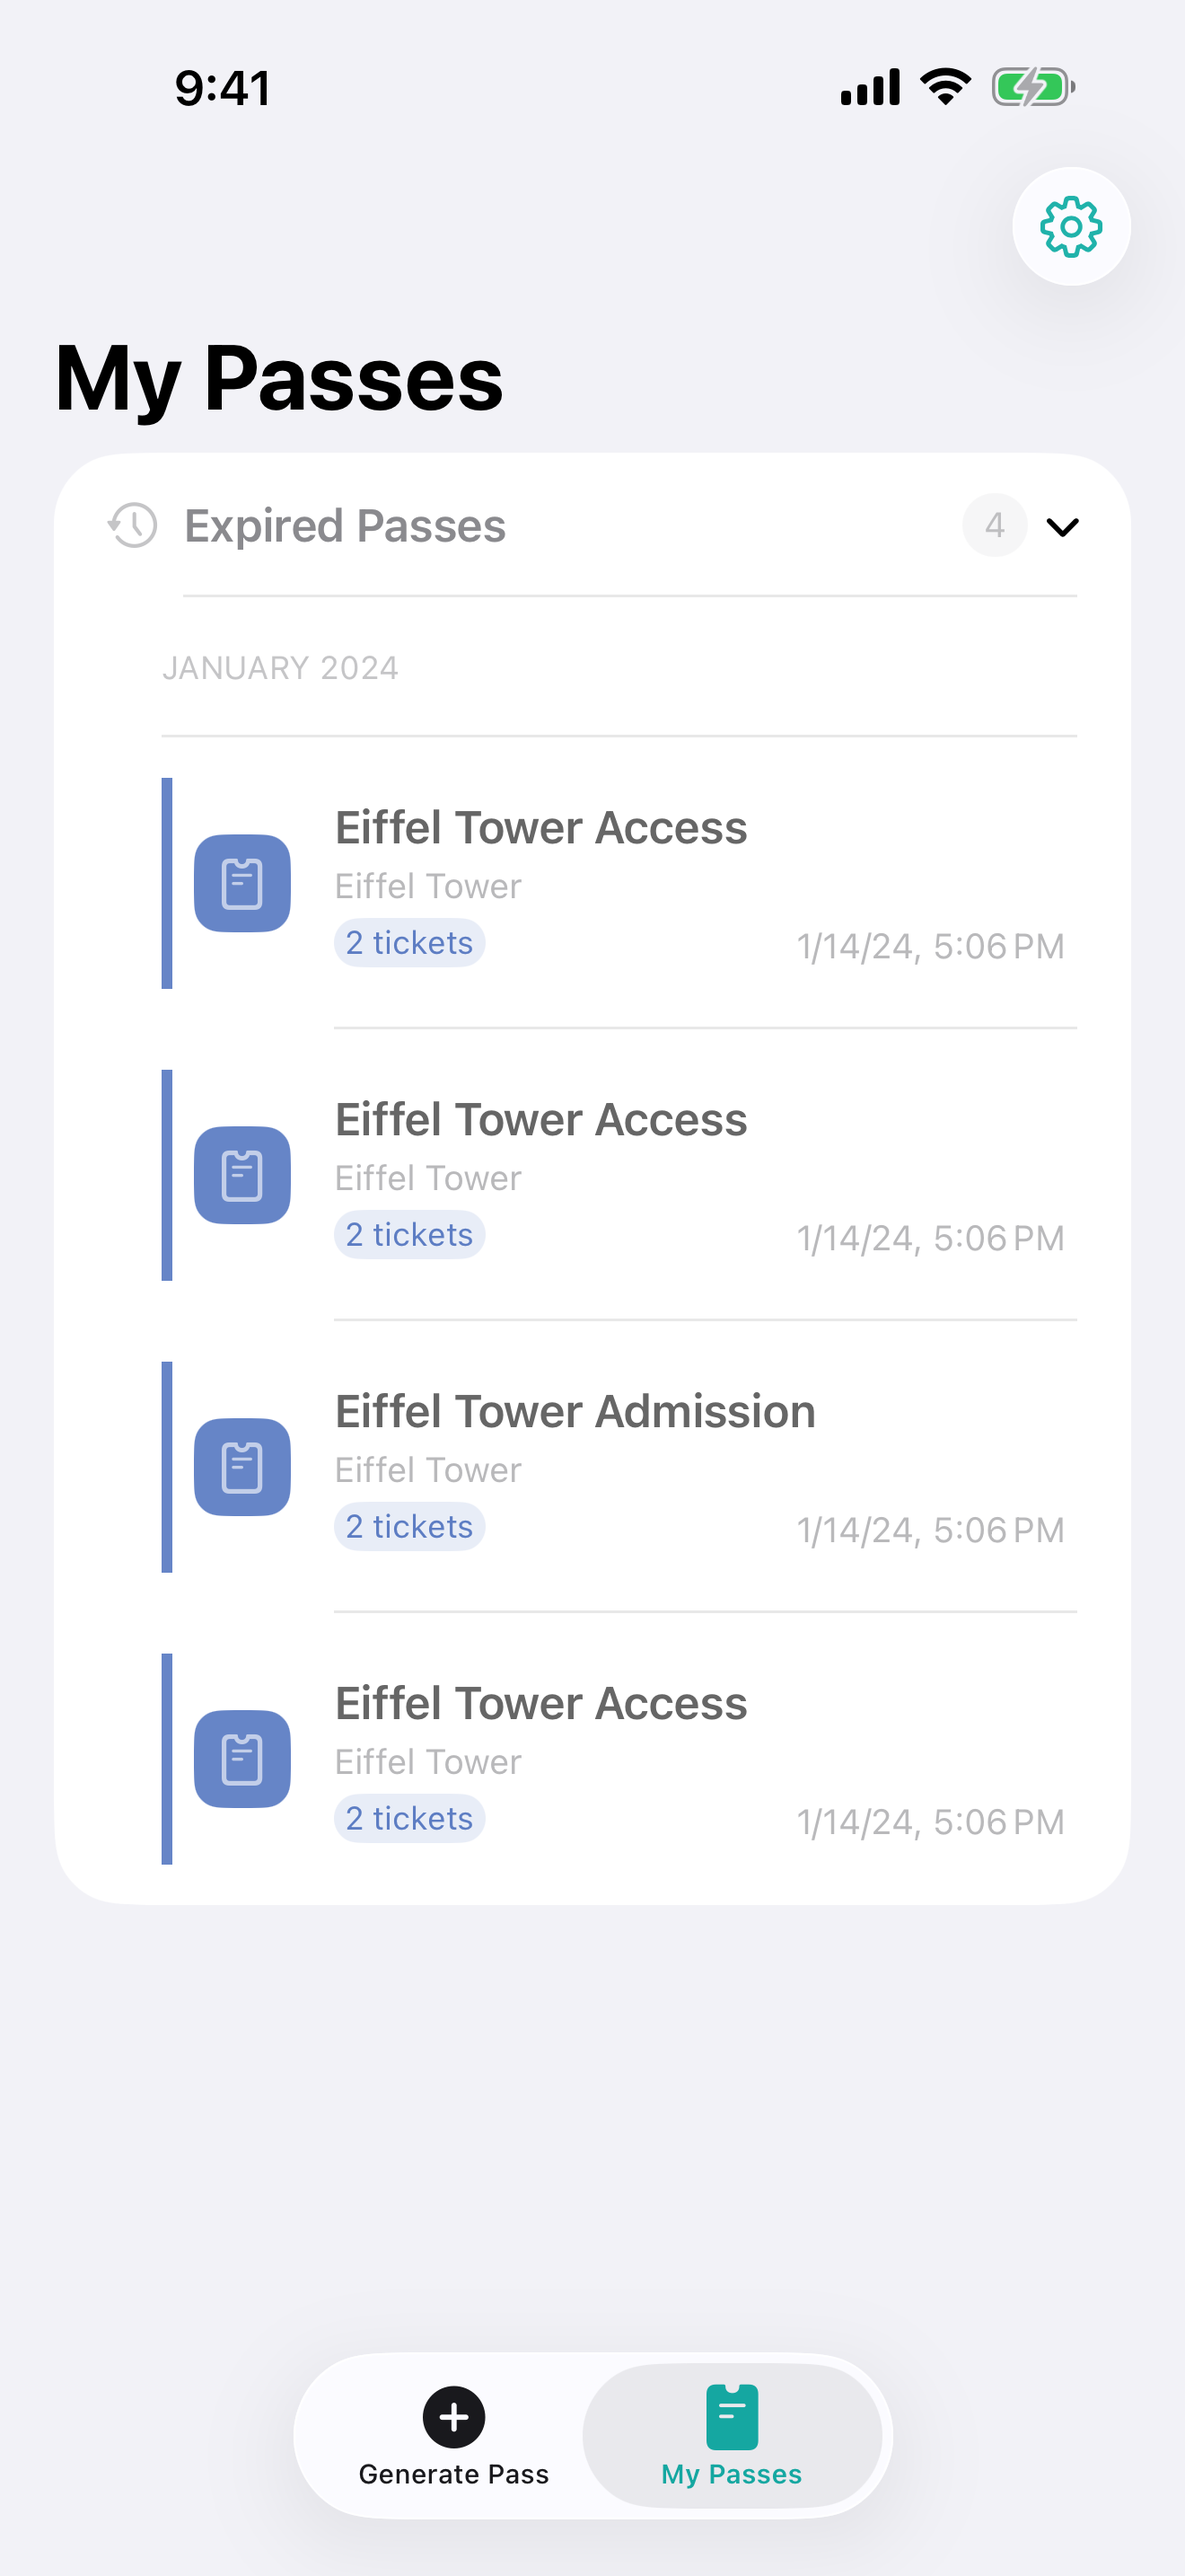
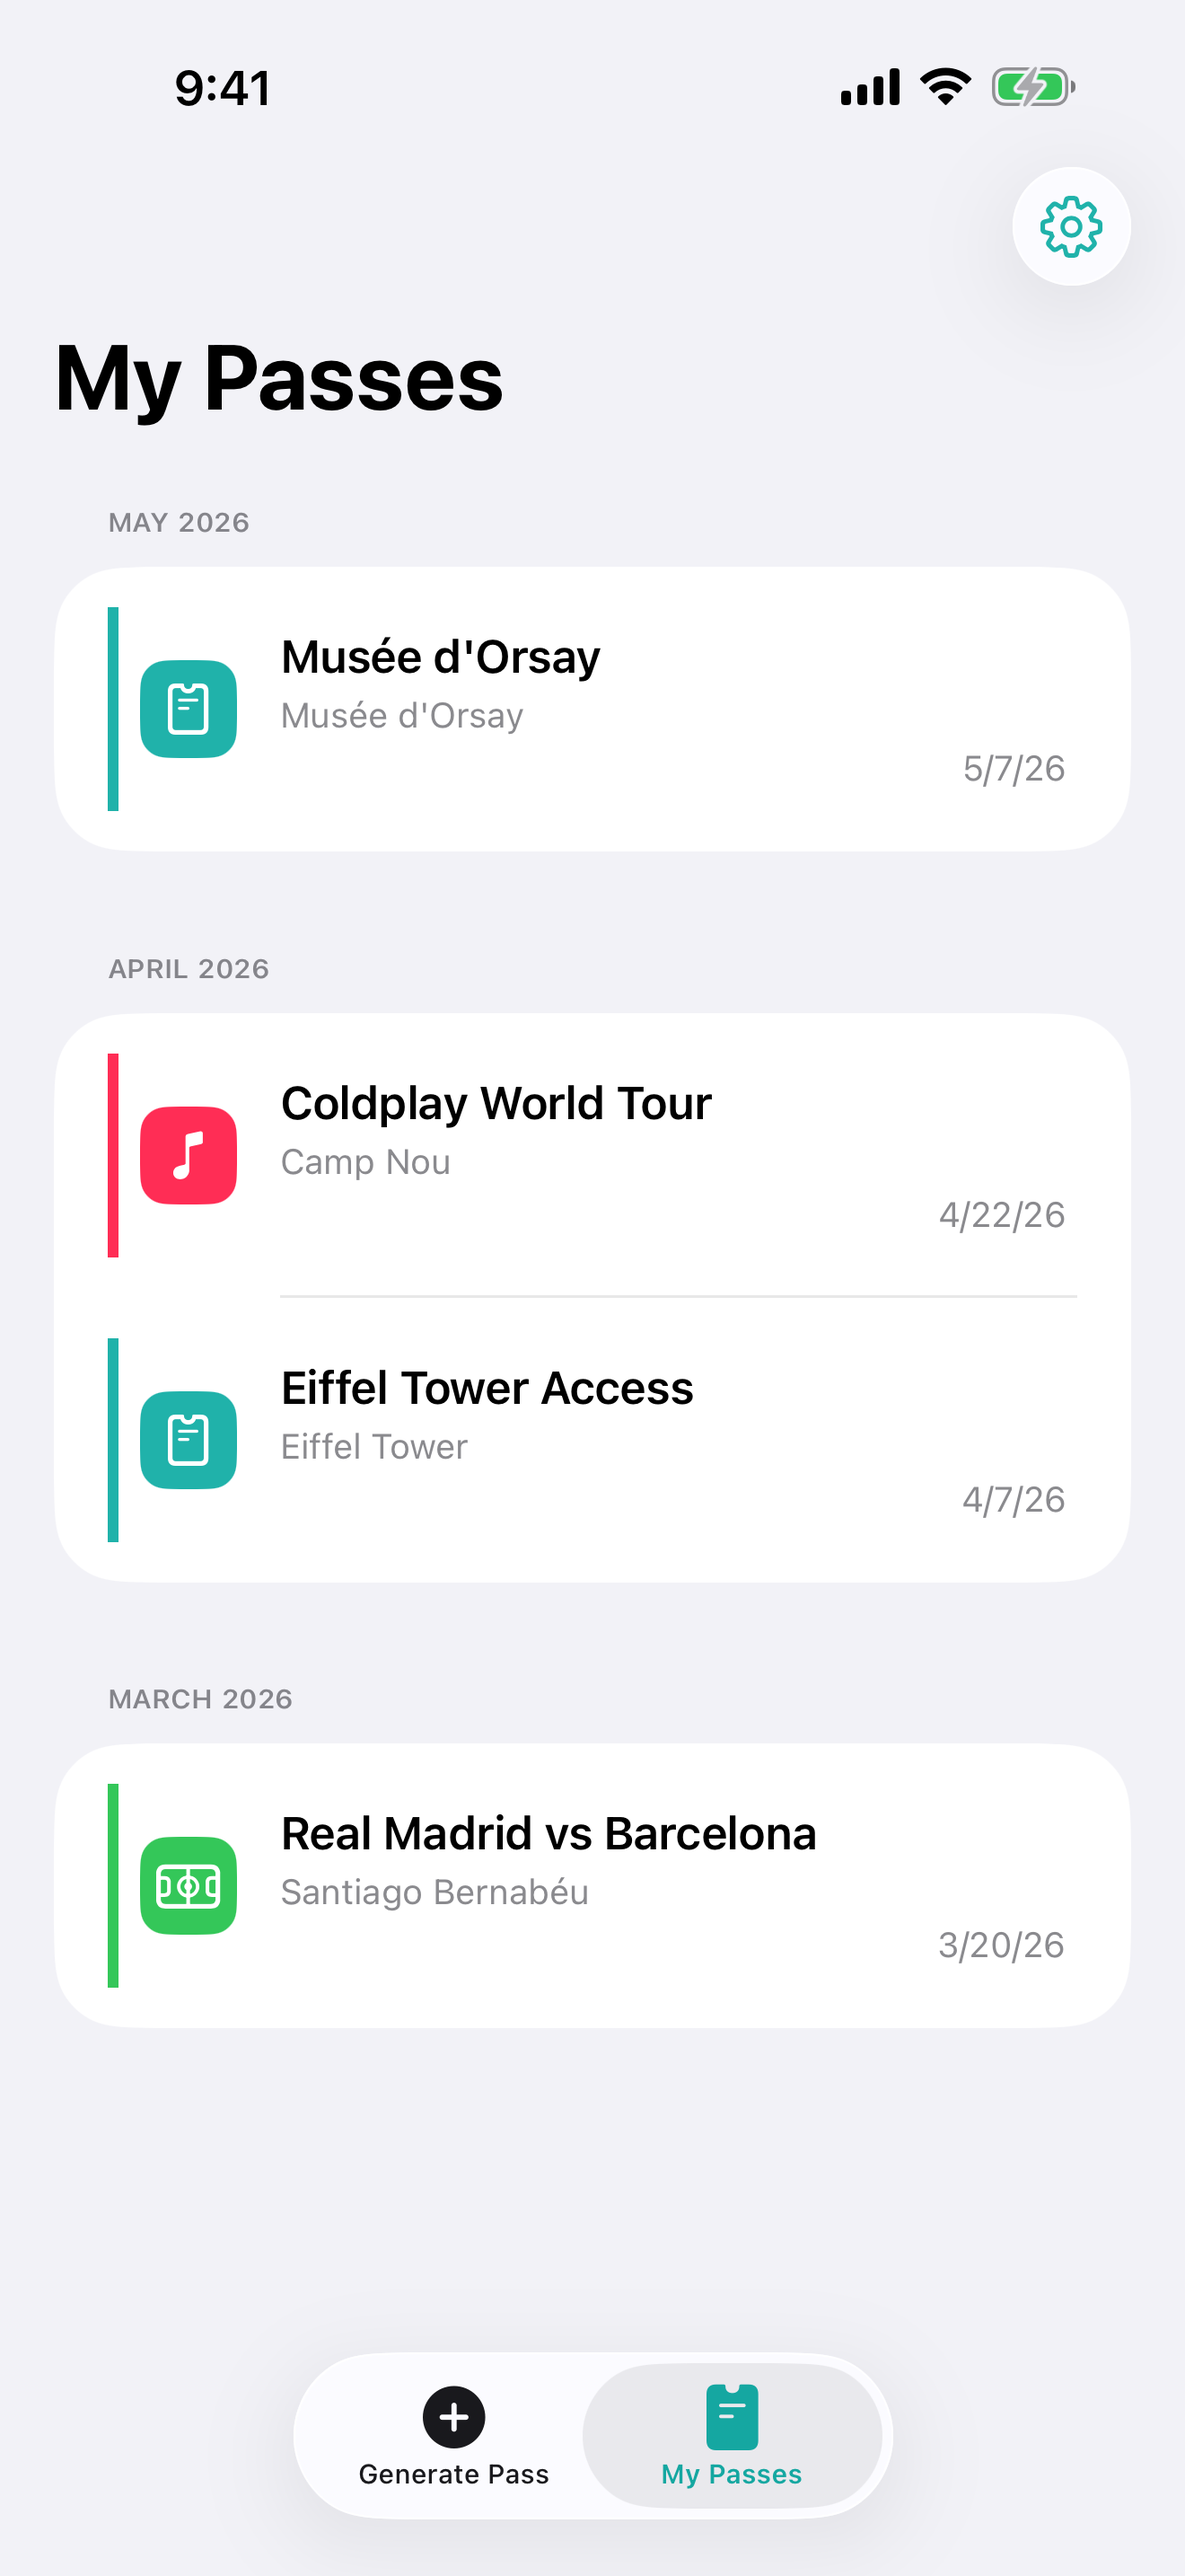
feat: screenshot mode with fake future passes for App Store screenshots
Adds SCREENSHOT_MODE launch argument support that seeds fake passes with
future dates, skips onboarding, and uses local-only SwiftData (no CloudKit
dialog). Zero impact on production — only activates via launch argument.

diff --git a/ios/Add2Wallet/Add2WalletApp.swift b/ios/Add2Wallet/Add2WalletApp.swift
@@ -30,7 +30,18 @@ struct Add2WalletApp: App {
         do {
             // Create a schema with the current model
             let schema = Schema([SavedPass.self])
-            
+
+            // In screenshot mode, use local-only storage (no CloudKit sign-in dialog)
+            if ScreenshotModeSeeder.isScreenshotMode() {
+                let localConfig = ModelConfiguration(
+                    schema: schema,
+                    isStoredInMemoryOnly: false,
+                    allowsSave: true,
+                    cloudKitDatabase: .none
+                )
+                container = try ModelContainer(for: schema, configurations: [localConfig])
+            } else {
+
             // Configure with iCloud sync enabled
             let modelConfiguration = ModelConfiguration(
                 schema: schema,
@@ -38,7 +49,7 @@ struct Add2WalletApp: App {
                 allowsSave: true,
                 cloudKitDatabase: .private("iCloud.com.andresboedo.add2wallet")
             )
-            
+
             // First, try to create the container normally
             do {
                 container = try ModelContainer(for: schema, configurations: [modelConfiguration])
@@ -91,9 +102,13 @@ struct Add2WalletApp: App {
                     print("Successfully created new store after dropping old data")
                 }
             }
+            } // end else (non-screenshot mode)
         } catch {
             fatalError("Failed to initialize Swift Data container: \(error)")
         }
+
+        // Seed fake passes for App Store screenshots (must run before body evaluates)
+        ScreenshotModeSeeder.seedIfNeeded(context: container.mainContext)
     }
     
     @AppStorage("hasSeenOnboarding") private var hasSeenOnboarding = false

diff --git a/ios/Add2Wallet/Utilities/ScreenshotModeSeeder.swift b/ios/Add2Wallet/Utilities/ScreenshotModeSeeder.swift
@@ -1,0 +1,48 @@
+import SwiftData
+import Foundation
+
+struct ScreenshotModeSeeder {
+    static func isScreenshotMode() -> Bool {
+        ProcessInfo.processInfo.arguments.contains("-SCREENSHOT_MODE")
+    }
+
+    @MainActor
+    static func seedIfNeeded(context: ModelContext) {
+        guard isScreenshotMode() else { return }
+
+        // Skip onboarding
+        UserDefaults.standard.set(true, forKey: "hasSeenOnboarding")
+
+        // Clear existing passes
+        try? context.delete(model: SavedPass.self)
+
+        let calendar = Calendar.current
+        let now = Date()
+
+        let formatter = DateFormatter()
+        formatter.dateFormat = "MMM d, yyyy"
+
+        let fakeData: [(title: String, venue: String, city: String, passType: String, daysFromNow: Int)] = [
+            ("Coldplay World Tour", "Camp Nou", "Barcelona", "concert", 45),
+            ("Real Madrid vs Barcelona", "Santiago Bernabéu", "Madrid", "sports", 12),
+            ("Eiffel Tower Access", "Eiffel Tower", "Paris", "attraction", 30),
+            ("Musée d'Orsay", "Musée d'Orsay", "Paris", "museum", 60),
+        ]
+
+        for (index, data) in fakeData.enumerated() {
+            let eventDate = calendar.date(byAdding: .day, value: data.daysFromNow, to: now)!
+            let pass = SavedPass(
+                id: "screenshot-\(index)",
+                createdAt: calendar.date(byAdding: .day, value: -index, to: now)!,
+                passType: data.passType,
+                title: data.title,
+                eventDate: formatter.string(from: eventDate),
+                venue: data.venue,
+                city: data.city
+            )
+            context.insert(pass)
+        }
+
+        try? context.save()
+    }
+}
